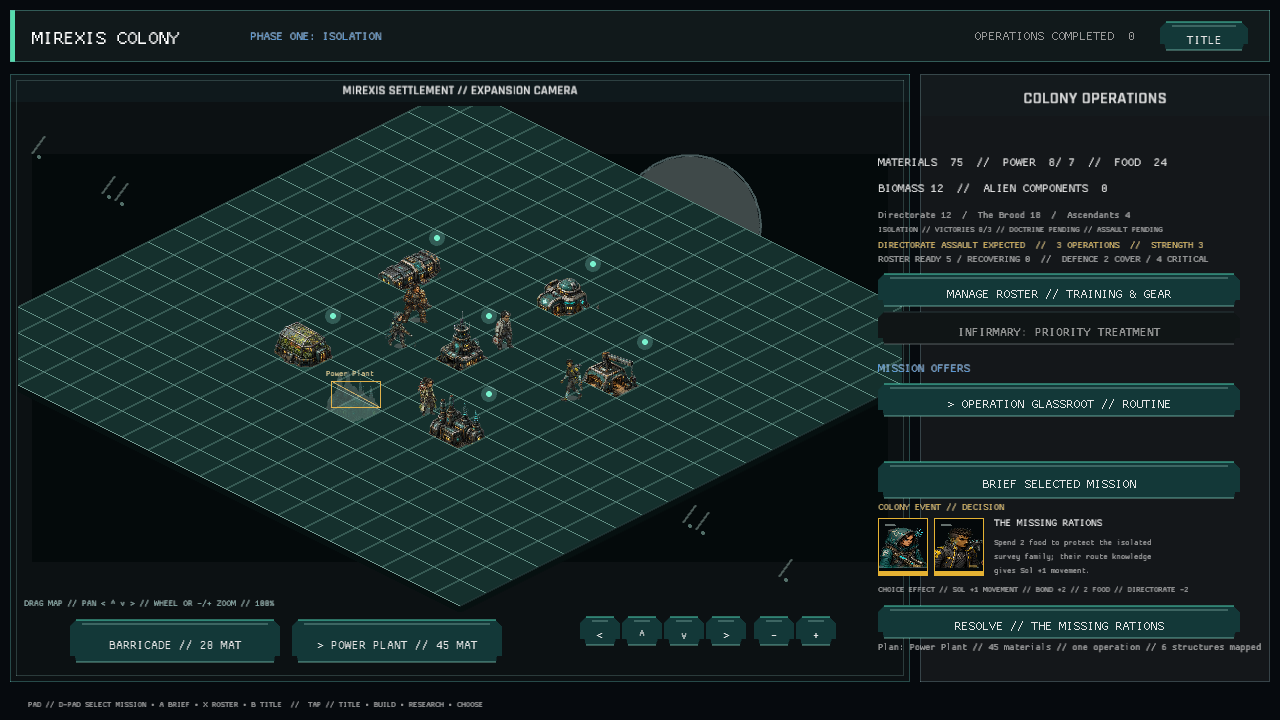
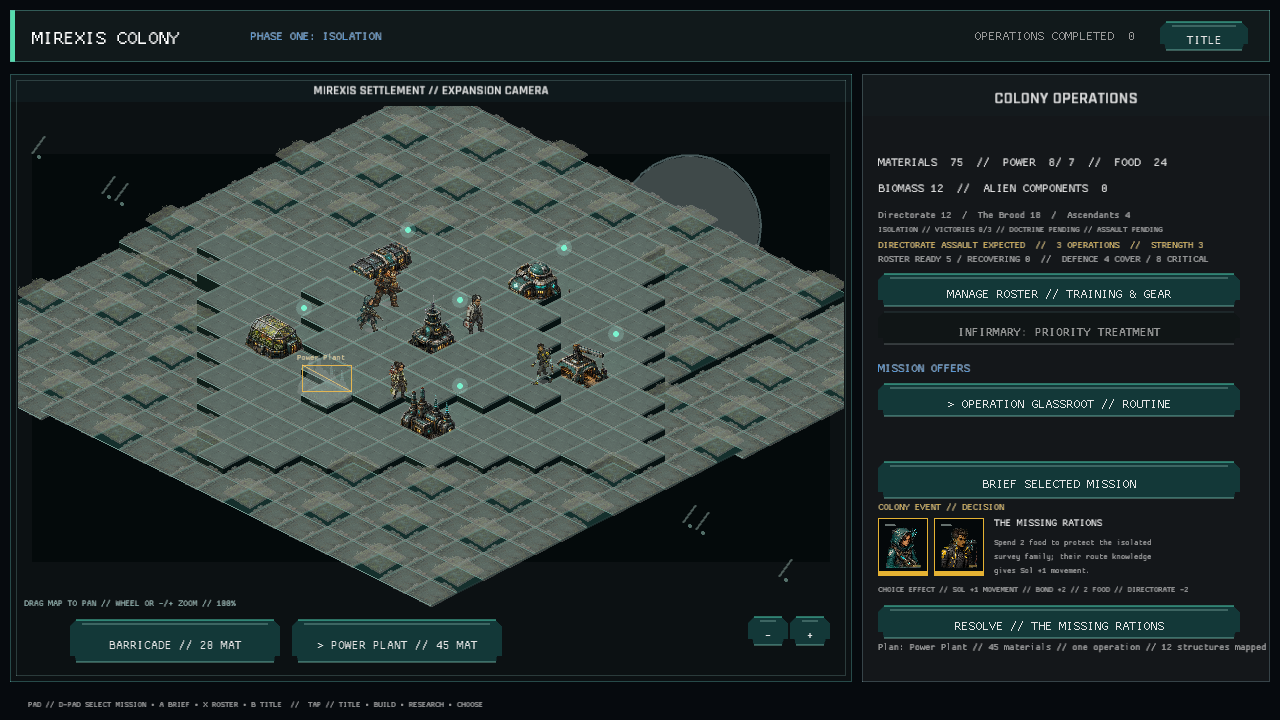
Every foundation claims the tile its shadow actually covers (isometric footprint orientation correction)
The two-tile occupancy existed, but its secondary offset followed the southeast grid axis. The building art extends northeast, so the visibly covered tile in the supplied screenshots still reported OPEN PLOT and accepted another structure.

Rotate the authoritative second footprint coordinate from [x+1, y] to [x, y-1] for buildings and queued projects. Update placement-boundary and ownership regressions to exercise that exact northeast coordinate, including a valid attempt to overlap an existing project. Bump the save/content version to 1.60.0 and refresh the colony and construction captures.

Verified with 218 crate tests, the source-size gate, cargo fmt, the complete publish.ps1 Windows/WebGL preview deployment, and visual inspection of the refreshed construction capture.

diff --git a/src/colony/tests.rs b/src/colony/tests.rs
@@ -87,20 +87,20 @@ fn power_plant_construction_adds_redundant_grid_capacity() {
 fn wide_structure_footprints_reserve_and_report_both_plots() {
     let mut colony = ColonyState::new();
     colony
-        .place_construction(BuildingKind::Barricade, [1, 1])
+        .place_construction(BuildingKind::Barricade, [3, 3])
         .unwrap();
 
     assert_eq!(
-        colony.project_at([2, 1]).map(|project| project.kind),
+        colony.project_at([3, 2]).map(|project| project.kind),
         Some(BuildingKind::Barricade)
     );
     assert!(colony
-        .place_construction(BuildingKind::Barricade, [2, 1])
+        .place_construction(BuildingKind::Barricade, [3, 2])
         .is_err());
 
     colony.advance_operation();
     assert_eq!(
-        colony.building_at([2, 1]).map(|building| building.kind),
+        colony.building_at([3, 2]).map(|building| building.kind),
         Some(BuildingKind::Barricade)
     );
 }
@@ -109,7 +109,7 @@ fn wide_structure_footprints_reserve_and_report_both_plots() {
 fn every_building_kind_claims_its_second_plot() {
     let colony = ColonyState::new();
     for building in &colony.buildings {
-        let second = [building.position[0] + 1, building.position[1]];
+        let second = [building.position[0], building.position[1] - 1];
         assert_eq!(
             colony.building_at(second).map(|found| found.id.as_str()),
             Some(building.id.as_str()),
@@ -128,7 +128,7 @@ fn every_building_kind_claims_its_second_plot() {
         BuildingKind::PowerPlant,
         BuildingKind::GeneLab,
     ] {
-        assert_eq!(kind.footprint(), &[[0, 0], [1, 0]]);
+        assert_eq!(kind.footprint(), &[[0, 0], [0, -1]]);
     }
 }
 
@@ -136,10 +136,10 @@ fn every_building_kind_claims_its_second_plot() {
 fn multi_plot_structures_must_fit_inside_the_colony_boundary() {
     let mut colony = ColonyState::new();
     assert!(colony
-        .place_construction(BuildingKind::Barricade, [COLONY_WIDTH - 1, 1])
+        .place_construction(BuildingKind::Barricade, [1, 0])
         .is_err());
     assert!(colony
-        .place_construction(BuildingKind::PowerPlant, [COLONY_WIDTH - 2, 1])
+        .place_construction(BuildingKind::PowerPlant, [1, 1])
         .is_ok());
 }
 
@@ -149,7 +149,7 @@ fn colony_build_area_extends_far_beyond_the_initial_settlement() {
     colony
         .place_construction(
             BuildingKind::Barricade,
-            [COLONY_WIDTH - 2, COLONY_HEIGHT - 1],
+            [COLONY_WIDTH - 1, COLONY_HEIGHT - 1],
         )
         .expect("the far colony frontier remains buildable");
 }

diff --git a/src/colony.rs b/src/colony.rs
@@ -67,7 +67,7 @@ impl BuildingKind {
     }
 
     pub fn footprint(self) -> &'static [[i32; 2]] {
-        &[[0, 0], [1, 0]]
+        &[[0, 0], [0, -1]]
     }
 
     fn occupies(self, anchor: [i32; 2], position: [i32; 2]) -> bool {

diff --git a/TECHNICAL_DESIGN.md b/TECHNICAL_DESIGN.md
@@ -2,7 +2,7 @@
 
 Status: Phase 0 through Phase 5 campaign arc complete
 Current campaign slice: complete identity-branched campaign
-Save/content version: 1.59.0
+Save/content version: 1.60.0
 Target platforms: Windows and browser/WASM
 Runtime: Rust 2021, Macroquad, macroquad-toolkit
 
